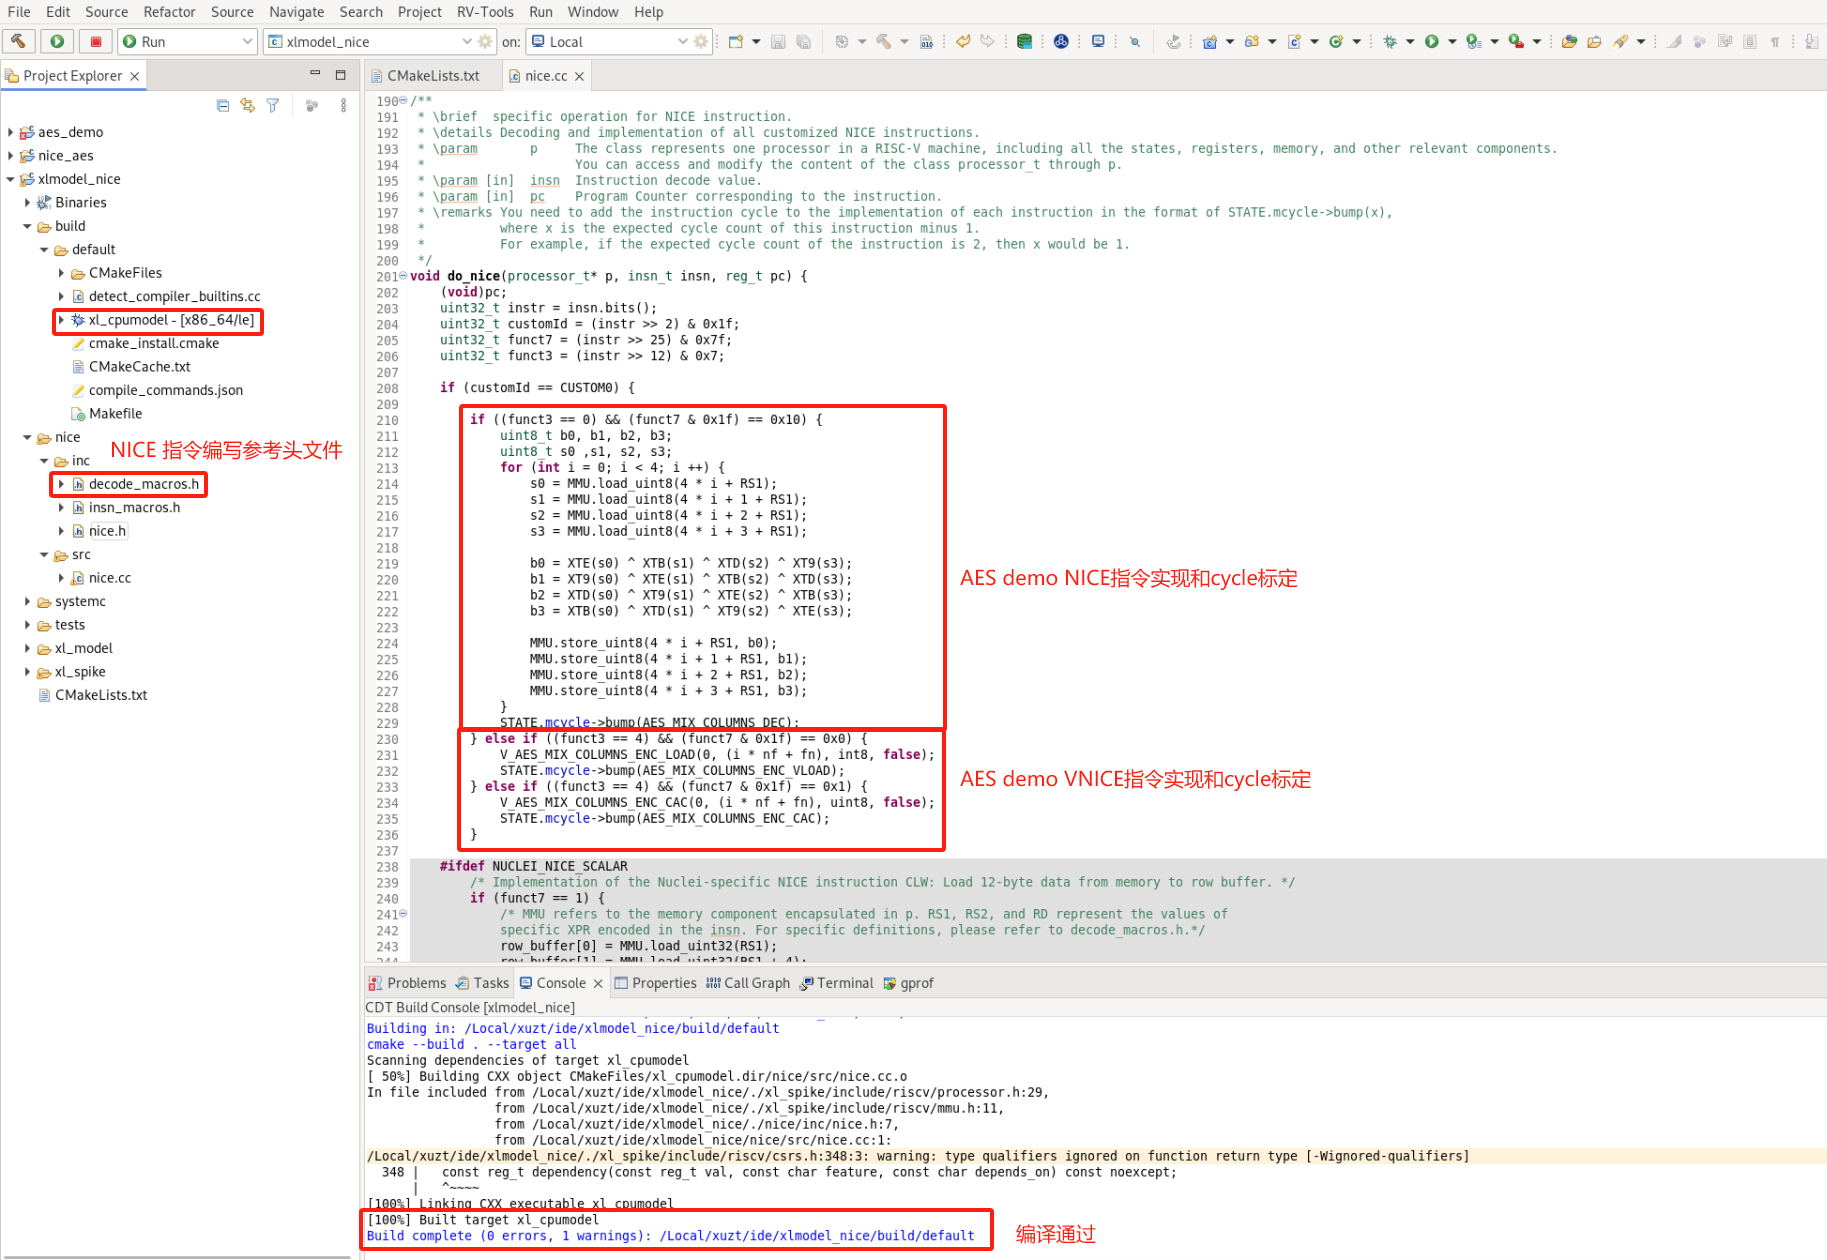
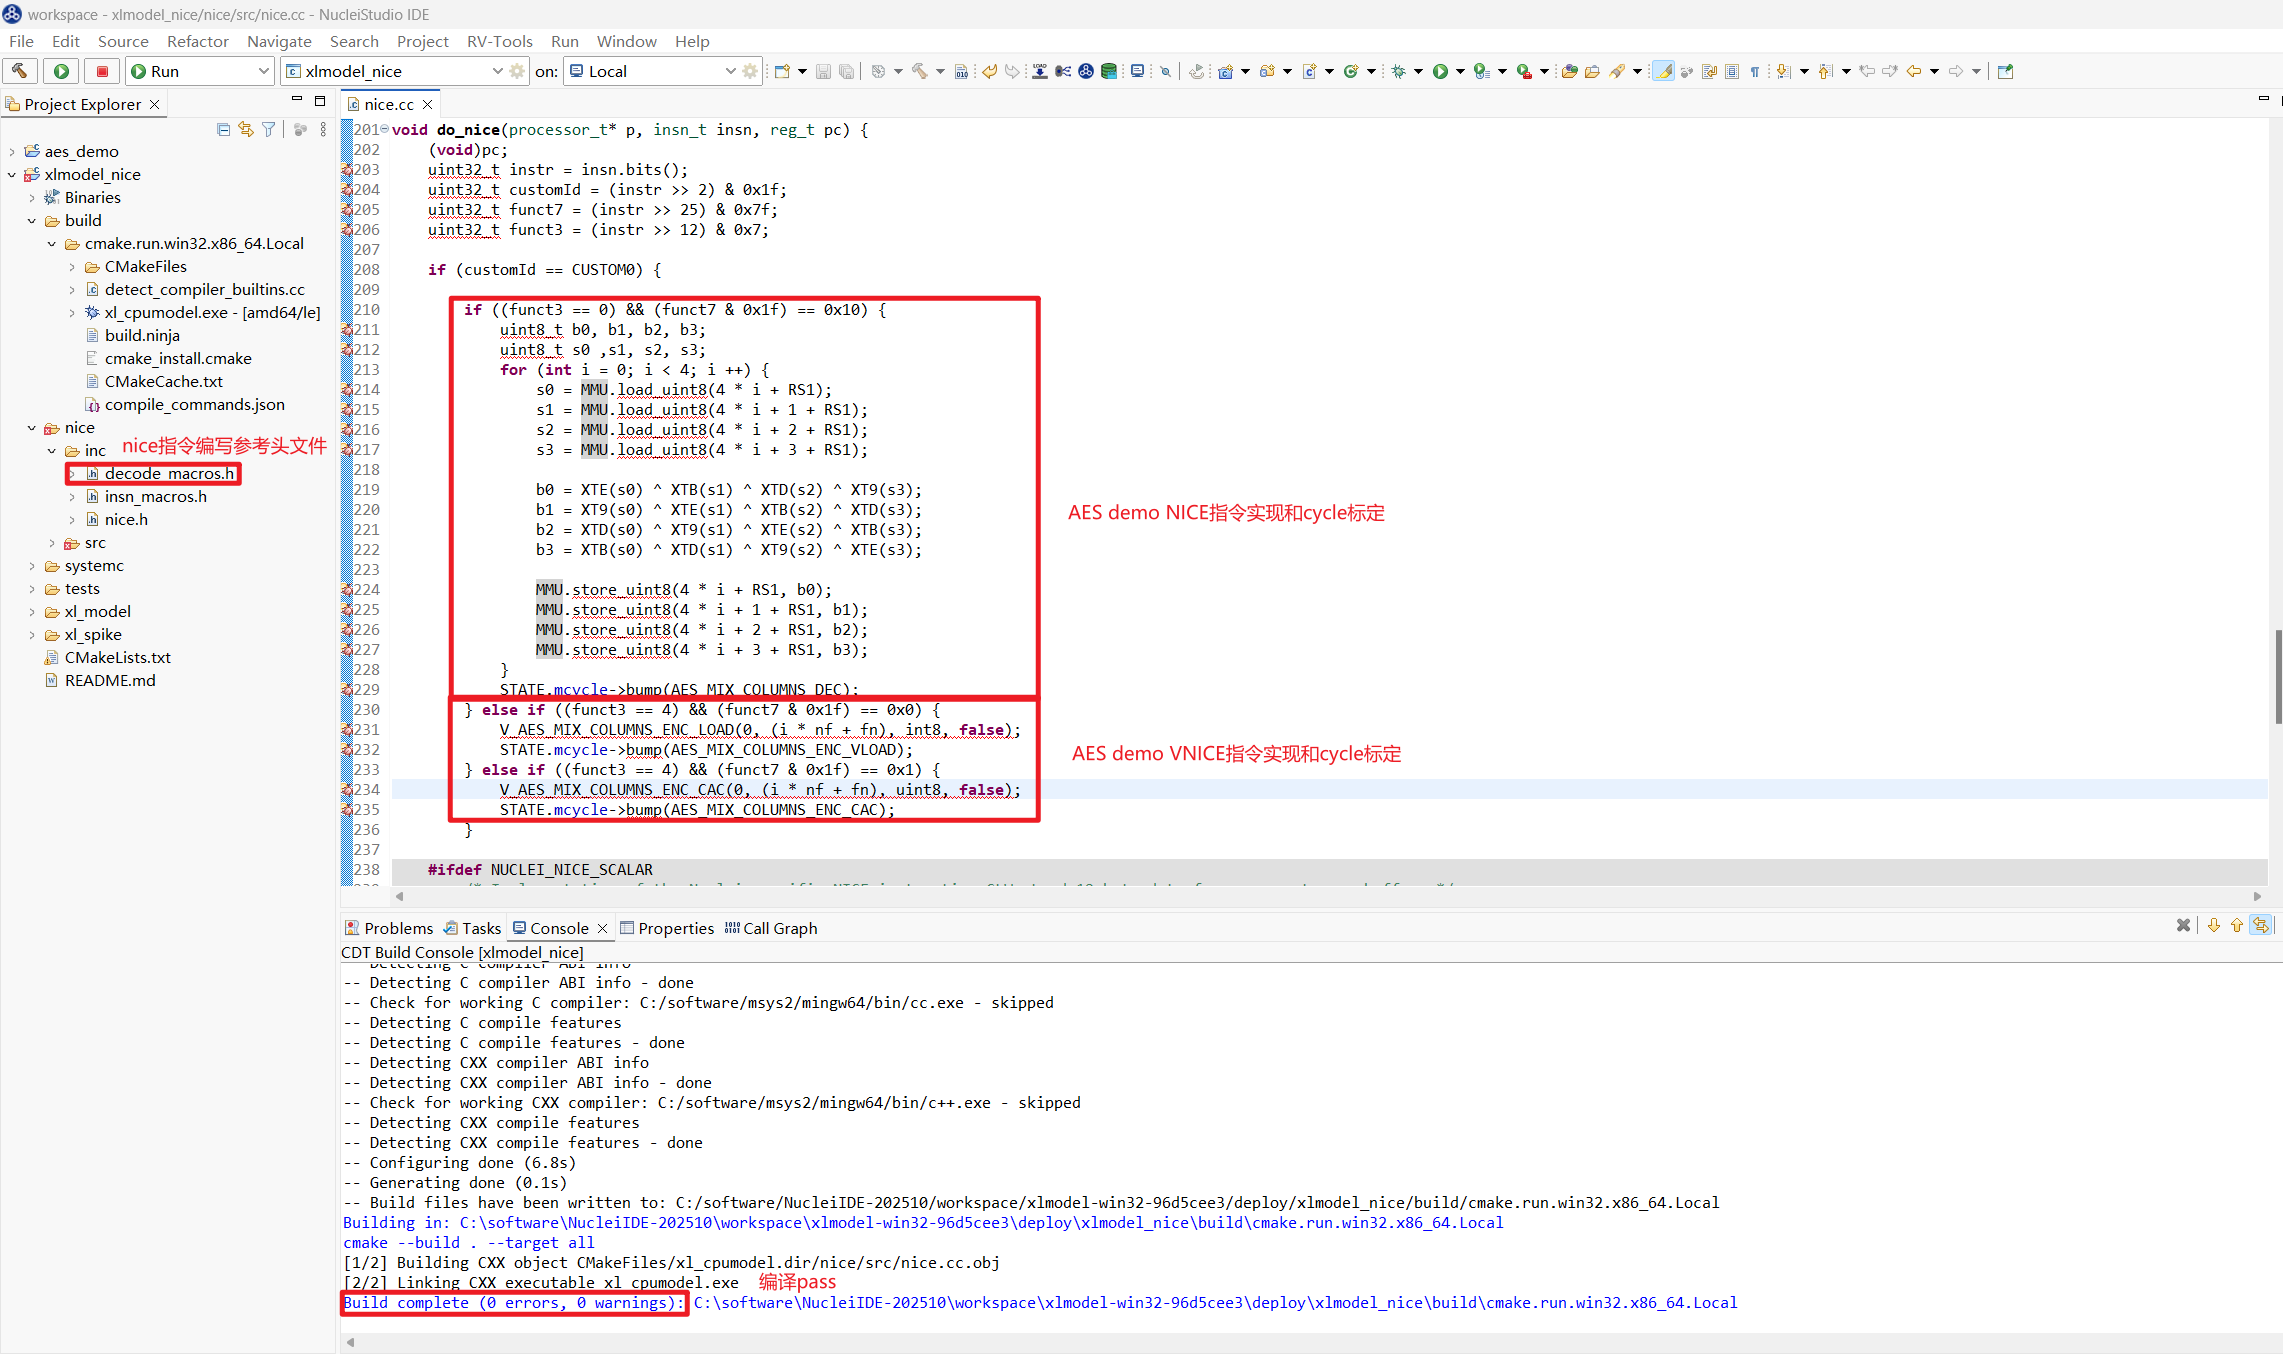
doc: update xlmodel related app notes(18 + 19) using Nuclei Studio 2025.10 (#63)
* xlmodel: Adapt xlmodel-related documentation to the 202510 version

* doc: Update README.md

---------

diff --git a/18-demonstrate_NICE_VNICE_acceleration_of_the_Nuclei_Model_through_profiling.md b/18-demonstrate_NICE_VNICE_acceleration_of_the_Nuclei_Model_through_profiling.md
@@ -1,6 +1,6 @@
 # 通过Profiling展示Nuclei Model NICE/VNICE指令加速
 
-> 由于 Nuclei Model 仅支持Linux版本，所以此文档的测试都是基于 Nuclei Studio 的 Linux版本 (>= 2024.06) 完成的。
+> Nuclei Model 已支持 Windows/Linux 版本，此文档测试都是基于 Nuclei Studio 的 Windows 版本 (>= 2025.10) 完成的。
 
 ## 背景描述
 
@@ -15,7 +15,7 @@ Nuclei Model Profiling 的优势:
 - model 中内建了 gprof 功能，无需 Profiling 库和 `gcc -pg` 选项就可以产生 Profiling 文件
 - 采取了指令级别的采样，可以进行指令级别的 Profiling 分析
 
-在[NucleiStudio_User_Guide.pdf](https://download.nucleisys.com/upload/files/doc/nucleistudio/Nuclei_Studio_User_Guide.202406.pdf)相关章节对 Nuclei Model 如何仿真性能分析配置已经有较详细的描述，此文档以一个例子来展示其实际应用。
+在[NucleiStudio_User_Guide.pdf](https://download.nucleisys.com/upload/files/doc/nucleistudio/Nuclei_Studio_User_Guide.202510.pdf)相关章节对 Nuclei Model 如何仿真性能分析配置已经有较详细的描述，此文档以一个例子来展示其实际应用。
 
 ### NICE/VNICE 自定义指令加速
 
@@ -28,7 +28,7 @@ Nuclei Model Profiling 的优势:
 
 ### 环境准备
 
-Nuclei Studio：[NucleiStudio 2024.06 Linux](https://download.nucleisys.com/upload/files/nucleistudio/NucleiStudio_IDE_202406-lin64.tgz)
+Nuclei Studio：[NucleiStudio 2025.10 Windows](https://download.nucleisys.com/upload/files/nucleistudio/NucleiStudio_IDE_202510-win64.zip)
 
 ### Model Profiling
 
@@ -67,18 +67,23 @@ __RV_CSR_SET(CSR_MSTATUS, MSTATUS_XS);
 
 首先将 `aes_debug.h` 中的 `LOCAL_DEBUG` 打开，准备测试 AES 算法的整体 cycle 数。
 
-Nuclei Model 仿真程序需要配置 Nuclei Studio 中的 RVProf 运行配置，打开 Nuclei Studio 主菜单栏的 `Run` 选项的 `Run Configurations` 后，先在 `Main` 选项卡中选择编译好的 elf 文件路径，然后在 `RVProf` 选项卡
-的 `Config options` 中完成 model 运行配置 `--trace=1 --gprof=1 --logdir=Debug`，`--trace=1` 表示开启 rvtrace，`--gprof=1` 表示开启 gprof 功能生成 `*.gmon` 文件，`--logdir=Debug` 则表示最终生成的 `*.rvtrace` 文件、`*.gmon` 文件存存放的路径为当前工程下的 Debug 目录，取消勾选 `Start RVProf locally`，然后点击 `Apply` 和 `Run`，model 就开始运行程序了。
+Model 仿真程序需要配置 Nuclei Studio 中的 `GDB Nuclei Model riscv Debugging` 配置项，步骤如下：
 
-![image-Main_configuration](asserts/images/18/Main_configuration.png)
+1. 打开 Nuclei Studio 主菜单栏的 `Run` 选项的 `Run Configurations`
+2. 选择 `GDB Nuclei Model riscv Debugging` 配置项，右键选择 `New Configuration`，会自动生成项目名的 Model 配置页面，launch bar也会同步更新
+3. 在右侧 `Main` 选项卡中点击 `Search Project...` 选择编译好的 elf 文件
+4. 在右侧 `Debugger` 选项卡中选择 `Browse` 找到 Nuclei Model 可执行程序默认路径：`NucleiStudio/toolchain/nucleimodel/bin/xl_cpumodel.exe`
+5. 在右侧 `Debugger` 选项卡中的 `Nuclei Setup` 中完成 model 运行配置, 选择 `Nuclei RISC-V Core` 和 `Other Extensions` 需要保持和 `Nuclei Settings` 的 `Core` 和 `Other extensions` 配置一致，`Other Extensions` 为空时不传递此参数， `Enable Nuclei Model RVTrace` 表示运行时生成 rvtrace，`More options` 加上 `--gprof=1` 开启 Profiling 功能， 然后点击 `Apply` 和 `Run`，model 就开始运行程序了
 
-![image-RVProf_configuration](asserts/images/18/RVProf_configuration.png)
+    ![image-Ori_Project_Model_Config](asserts/images/18/Ori_Project_Model_Config.png)
 
-在 Console 中会看到 `Total elapsed time` 说明 model 已经完成仿真了，得到 AES 算法整体消耗 154988 cycle。
+> Nuclei Studio (< 2025.10) 只能使用 `Run Configurations` 中的 `Nuclei Model` 来配置 model，Nuclei Studio (>= 2025.10) 建议切换到使用 `GDB Nuclei Model riscv Debugging` 来配置
+
+在 Console 中会看到 `Total elapsed real time` 说明 model 已经完成仿真了，得到 AES 算法整体消耗 161108 cycle。
 
 ![image-ase_demo_cycle](asserts/images/18/aes_demo_cycle.png)
 
-将 `aes_debug.h` 中的 `LOCAL_DEBUG` 关掉去掉程序打印，为了准确测试 Profiling 数据，确保 Nuclei Studio 的 launch bar 为 `aes_demo Debug`, 重新 Run model：
+将 `aes_debug.h` 中的 `LOCAL_DEBUG` 关掉去掉程序打印，为了准确测试 Profiling 数据，确保 Nuclei Studio 的 launch bar 为 `aes_demo Debug`, 重新 Run model，运行结束后会生成 Profiling 文件：
 
 ![image-aes_demo_profiling](asserts/images/18/aes_demo_profiling.png)
 
@@ -279,12 +284,14 @@ static void aes_mix_columns_enc(
 
 #### step6：在 Nuclei Model 中实现 NICE/VNICE 指令
 
-首先需要下载支持用户配置自定义 **NICE/VNICE** 指令的原始 Nuclei Model 软件包[原始model软件包下载](https://drive.weixin.qq.com/s?k=ABcAKgdSAFccHEiAsM)，解压软件包为 `xlmodel_nice`，然后将其导入 Nuclei Studio。
+首先需要下载支持用户配置自定义 **NICE/VNICE** 指令的原始 Nuclei Model 软件包[原始model软件包下载](https://drive.weixin.qq.com/s?k=ABcAKgdSAFcCirwEWY)，解压软件包为 `xlmodel_nice`，然后将其导入 Nuclei Studio。
 
 导入步骤：File->Import->Projects from Folder or Archive->Next->Directory->选择 `xlmodel_nice`->Finish即可
 
 如何使用 Nuclei Model 以及查看 `xlmodel_nice` 软件包的目录结构可以参考[Nuclei Model介绍](https://doc.nucleisys.com/nuclei_tools/xlmodel/)，`xlmodel_nice` 是由CMake构建的，用户无需修改即可编译，在
-编译前选择 Nuclei Studio 的 launch bar 的 `xlmodel_nice`，然后点击编译，确保软件包本身编译通过，编译生成的 elf 文件所在路径为 `build/default/xl_cpumodel`：
+编译前选择 Nuclei Studio 的 launch bar 的 `xlmodel_nice`，然后点击编译，确保软件包本身编译通过：
+
+> Nuclei Studio (< 2025.10) 生成的 elf 文件所在路径为 `build/default/xl_cpumodel`
 
 ![image-xlmodel_nice_build](asserts/images/18/xlmodel_nice_build.png)
 
@@ -307,26 +314,22 @@ AES demo 中定义的 **NICE/VNICE** 指令实现如下图，通过指令的 `op
 
 以上介绍了用户如何从原始 Nuclei Model 软件包添加自定义 **NICE/VNICE** 指令，接下来需要将新编译出的 model 可执行程序导入到 Nuclei Studio 中，为了不和 Nuclei Studio 原始 model 名称混淆，可以将 model 导入到 `NucleiStudio/toolchain/nucleimodel/bin_aes/` 的创建路径下，我们提供了两种 model 可执行程序获取方式：  
 
-1. 实现 AES demo **NICE/VNICE** 指令的 Nuclei model 软件包[添加AES NICE指令model软件包](https://drive.weixin.qq.com/s?k=ABcAKgdSAFc1wrUKu1)，编译后将 `xl_cpumodel` 可执行程序导入上述路径。
-2. 编译好的 model 的可执行程序 [xl_cpumodel](https://drive.weixin.qq.com/s?k=ABcAKgdSAFc03skCLp)，直接导入上述路径。
+1. 实现 AES demo **NICE/VNICE** 指令的 Nuclei model 软件包[添加AES NICE指令model软件包](https://drive.weixin.qq.com/s?k=ABcAKgdSAFcrcrb4T6)，编译后将 `xl_cpumodel` 可执行程序导入上述路径。
+2. 编译好的 model 的可执行程序 [xl_cpumodel](https://drive.weixin.qq.com/s?k=ABcAKgdSAFcB1NbrL1)，直接导入上述路径。
 
 #### step7：热点函数再分析
 
 **注意：** 请务必完成 step6 中介绍的实现了 **NICE/VNICE** 指令的 model 导入 Nuclei Studio 中才能用 model Run `aes_demo_nice` 工程。
 
-首先打开 Nuclei Studio 主菜单栏的 `Run` 选项的 `Run Configurations`，model 配置需要重新添加一份 Nuclei Studio 中的 RVProf 运行配置 `aes_demo_nice Debug`：
+首先打开 Nuclei Studio 主菜单栏的 `Run` 选项的 `Run Configurations`，model 配置需要重新添加新的 `GDB Nuclei Model riscv Debugging` 运行配置 `aes_demo_nice Debug`，在 `Main` 选项卡中选择 `aes_demo_nice.elf`：
 
-![image-new_rvprof_configuration](asserts/images/18/new_rvprof_configuration.png)
+![image-aes_demo_nice_model_config_main](asserts/images/18/aes_demo_nice_model_config_main.png)
 
-将 `Main` 选项卡的 `Project` 通过 `Browse` 改为 `aes_demo_nice`，`C/C++ Application` 通过 `Search Project` 改为 `aes_demo_nice.elf`:
+然后在 `Debugger` 选项卡中的 model 执行路径 `Executable path` 改为 step6 中新修改 model 的执行路径： `.../NucleiStudio/toolchain/nucleimodel/bin_aes/xl_cpumodel`:
 
-![image-aes_main_configuration](asserts/images/18/aes_main_configuration.png)
+![image-aes_demo_nice_model_config_debugger](asserts/images/18/aes_demo_nice_model_config_debugger.png)
 
-然后将 `RVProf` 选项卡中的 model 执行路径 `Executable path` 改为 step6 中新修改 model 的执行路径： `.../NucleiStudio/toolchain/nucleimodel/bin_aes/xl_cpumodel`:
-
-![image-aes_rvprof_configuration](asserts/images/18/aes_rvprof_configuration.png)
-
-运行前将 `aes_debug.h` 中的 `LOCAL_DEBUG` 打开，测试优化后 AES 算法的整体 cycle 数，选择 Nuclei Studio 的 launch bar 的 `aes_demo_nice Debug`后 Run model，得到 AES 算法优化后整体消耗 cycle 数从优化前的 154988 降到了 35619 cycle。
+运行前将 `aes_debug.h` 中的 `LOCAL_DEBUG` 打开，测试优化后 AES 算法的整体 cycle 数，选择 Nuclei Studio 的 launch bar 的 `aes_demo_nice Debug`后 Run model，得到 AES 算法优化后整体消耗 cycle 数从优化前的 161108 降到了 42066 cycle。
 
 ![image-aes_demo_nice_cycle](asserts/images/18/aes_demo_nice_cycle.png)
 
@@ -349,7 +352,7 @@ AES demo 中定义的 **NICE/VNICE** 指令实现如下图，通过指令的 `op
 
 | AES Program Total           | Before Optimization | NICE/VNICE Optimization  |
 |-----------------------------|---------------------|--------------------------|
-| Cycles                      | 154,988             | 35,619                   |
+| Cycles                      | 161,108             | 42,066                   |
 
 AES加解密 NICE/VNICE demo：[优化后AES工程链接下载](https://drive.weixin.qq.com/s?k=ABcAKgdSAFc5f6zPQW)
 

diff --git a/README.md b/README.md
@@ -30,7 +30,7 @@ Click [this link](https://doc.nucleisys.com/nuclei_studio_supply/) to see online
 
 ## Documents
 
-> Generated by `python3 update.py` @ 2025-09-26 09:48:46
+> Generated by `python3 update.py` @ 2025-12-05 16:17:56
 
 - [1. 因内存不足，导致在Nuclei Studio中启动qemu失败](1-cannot-setup-guestmemory.md)
 - [2. windows 11下使用Nuclei Studio进行qemu调试程序时报错](2-qemu-glib-gio-unexpectedly.md)
